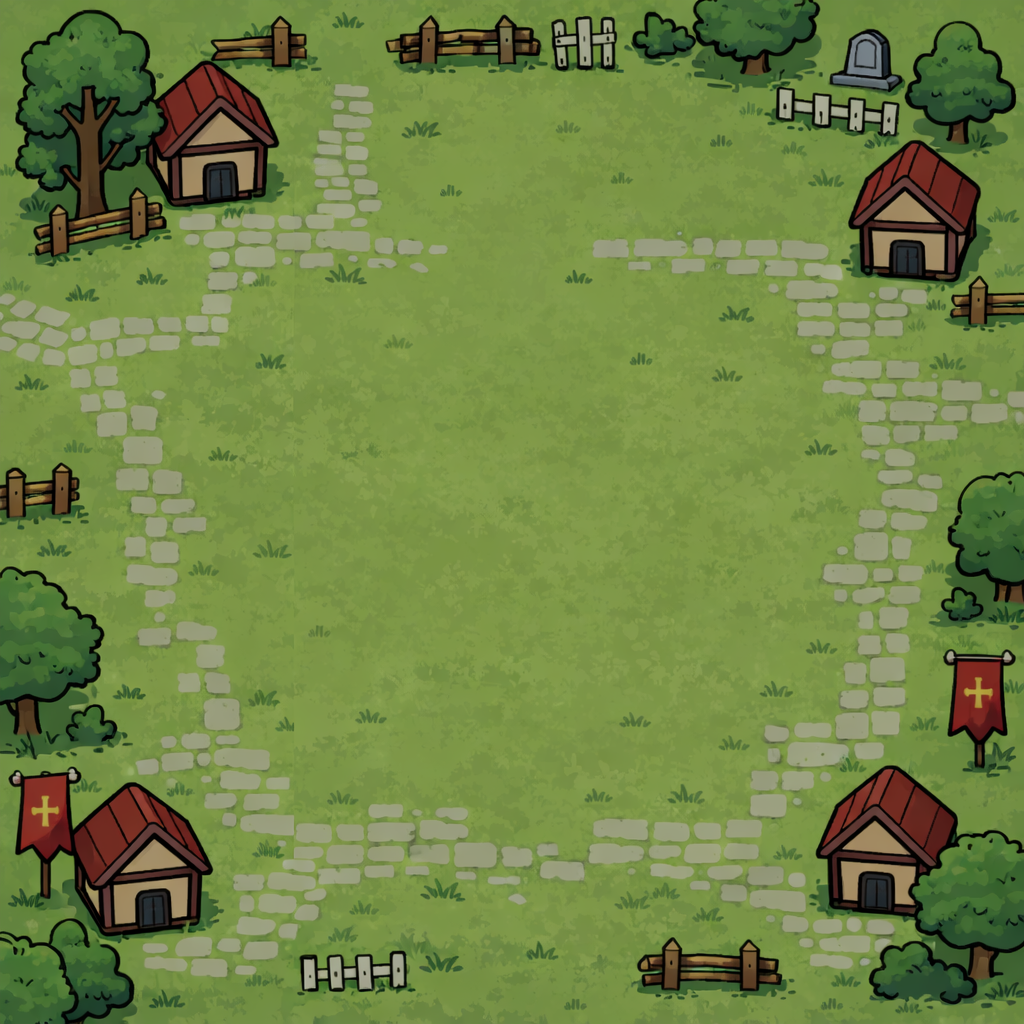
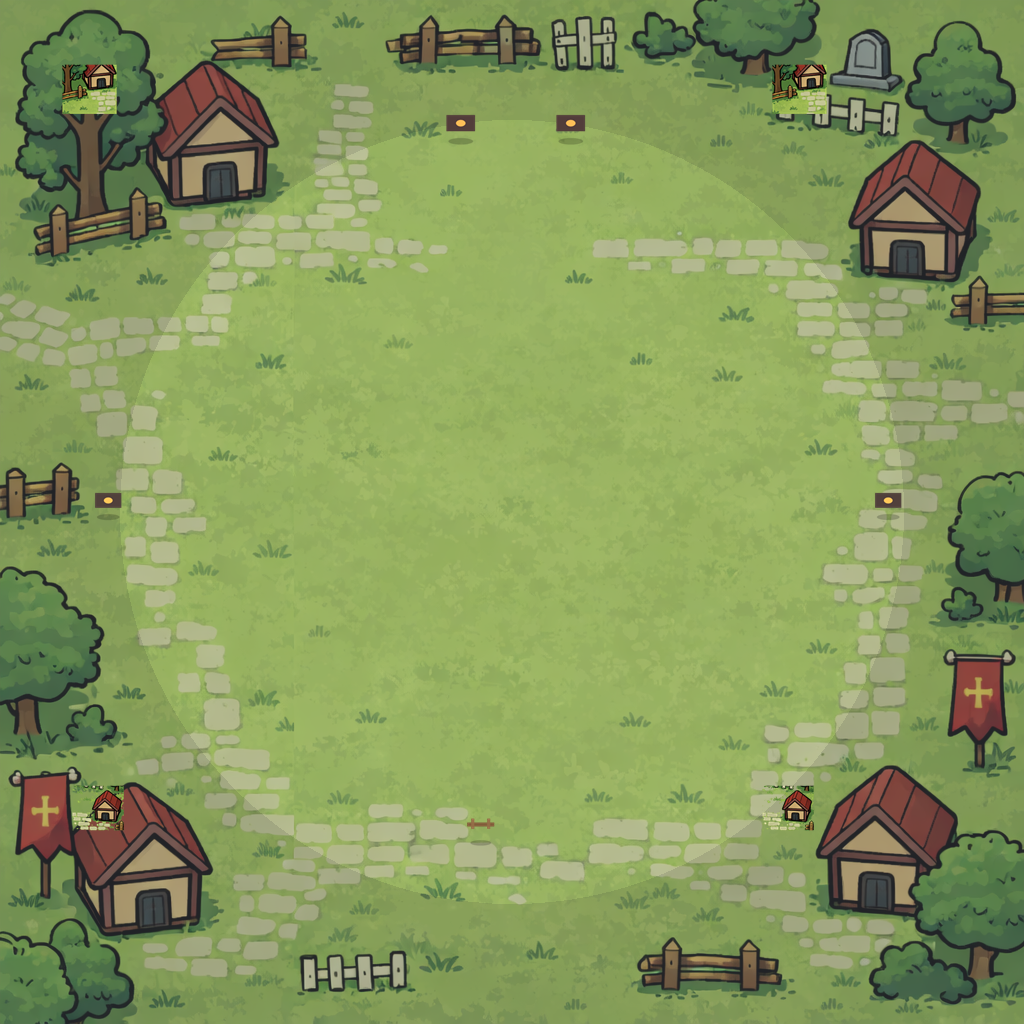
3

diff --git a/docs/reports/BACKGROUND_VARIANT_PASS_2026-03-13.md b/docs/reports/BACKGROUND_VARIANT_PASS_2026-03-13.md
@@ -1,0 +1,20 @@
+# Background Variant Pass — 2026-03-13
+
+## Updated Files (Topdown Runtime Set)
+- assets/backgrounds/bg_town_topdown.png
+- assets/backgrounds/bg_city_topdown.png
+- assets/backgrounds/bg_metropolis_topdown.png
+- assets/backgrounds/bg_planet_topdown.png
+- assets/backgrounds/bg_cult_world_topdown.png
+
+## Stage Intent Applied
+- Town: denser lived-in village edges (houses, carts, well, signposts, fences)
+- City: cooler urban tone + stronger edge framing + denser built edges
+- Metropolis: darker structured urban mass and denser border composition
+- Planet: alien palette shift (violet/teal) + ritual stones and sparse strange edge elements
+- Cult World: dark ritual palette + altars, banners, candles, stones with strong cult framing
+
+## Runtime Safety
+- Progression system references unchanged (`bg_*_topdown.png`)
+- Center gameplay area kept readable (edge-heavy decoration)
+- No script/scene logic modifications

diff --git a/docs/canon/CURSOR_ASSET_LIST_DRAFT.md b/docs/canon/CURSOR_ASSET_LIST_DRAFT.md
@@ -29,7 +29,7 @@ Variant policy:
 
 - Character variants: `_01`, `_02`, `_03`, ...
 - Small prop variants: `_a`, `_b`, `_c` or `_01`, `_02`, `_03`
-- Stage backgrounds: `bg_<stage>.png`
+- Stage backgrounds (runtime): `bg_<stage>_topdown.png`
 
 ---
 
@@ -158,16 +158,7 @@ Suggested folder: `assets/environment/`
 - `ritual_circle_ground.png` (planned)
 - `ritual_pillar_01.png` (planned)
 
-### 4.7 Stage Backgrounds
-
-- `bg_village.png`
-- `bg_town.png`
-- `bg_city.png`
-- `bg_metropolis.png`
-- `bg_planet.png`
-- `bg_cult_world.png`
-
-Optional top-down set (if active pipeline uses it):
+### 4.7 Stage Backgrounds (Canonical Runtime Set)
 
 - `bg_village_topdown.png`
 - `bg_town_topdown.png`
@@ -351,4 +342,5 @@ Rule of use:
 
 - Missing gameplay-critical assets should be added immediately.
 - Optional planned assets can be scheduled in production waves.
+
 

diff --git a/repo_map.md b/repo_map.md
@@ -14,7 +14,7 @@ This file defines the canonical production paths for runtime assets.
   - Cursor VFX: `res://assets/vfx/cursor/`
   - Conversion VFX: `res://assets/vfx/conversion/`
 - Environment textures: `res://assets/environment/`
-- Scene backgrounds: `res://assets/backgrounds/`
+- Scene backgrounds (runtime): `res://assets/backgrounds/` (canonical files: `bg_*_topdown.png`)
 - Props: `res://assets/props/`
   - Cult props: `res://assets/props/cult/`
   - Village props: `res://assets/props/village/`
@@ -70,3 +70,4 @@ Strict check command (must pass):
 Automation:
 - CI workflow: `.github/workflows/asset-canon-guard.yml`
 - Optional local hook installer: `tools/install_asset_audit_hook.ps1`
+

diff --git a/docs/reports/ASSET_DUPLICATION_AUDIT.md b/docs/reports/ASSET_DUPLICATION_AUDIT.md
@@ -1,7 +1,7 @@
 # Asset Duplication Audit
 
 ## Summary
-- total visual asset files scanned: **213**
+- total visual asset files scanned: **207**
 - exact duplicate groups count: **0**
 - duplicate files count: **0**
 - same-name multi-path conflicts count: **0**
